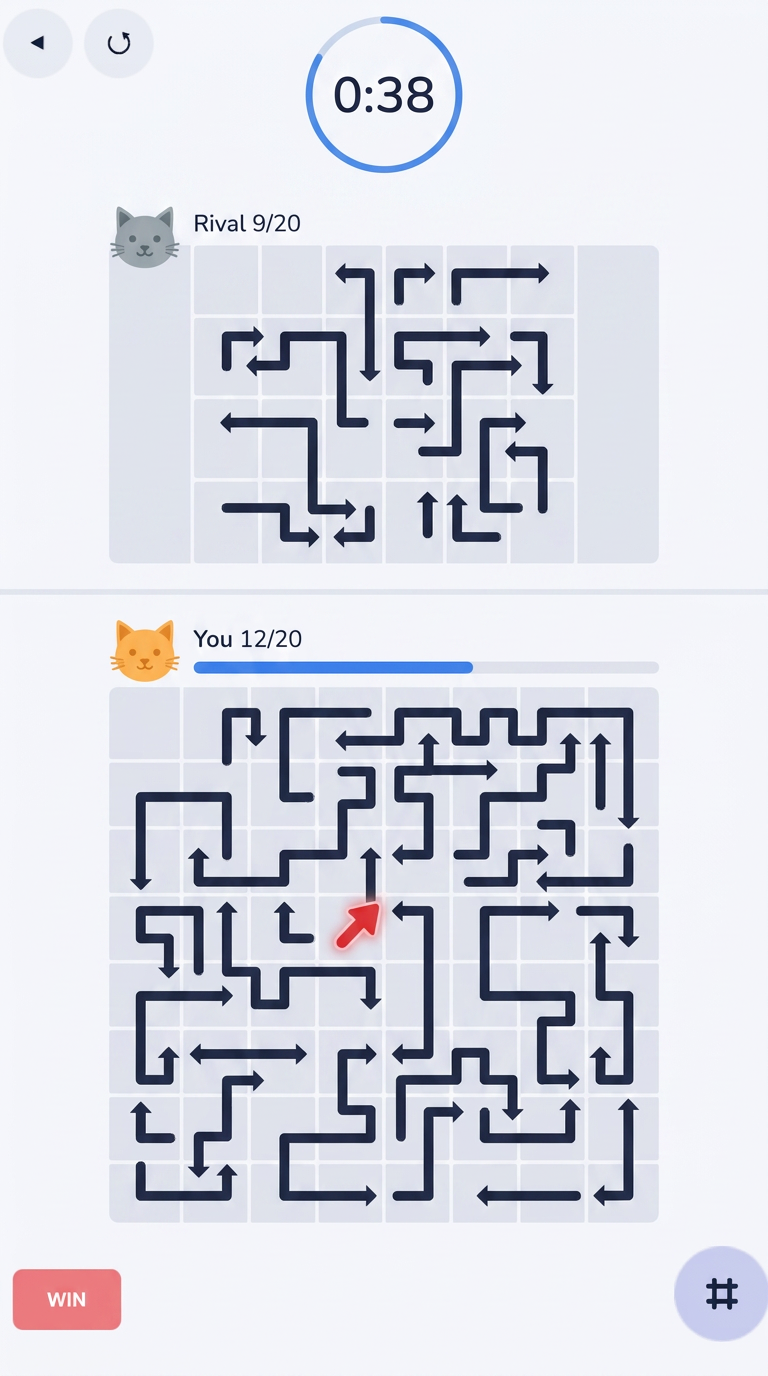
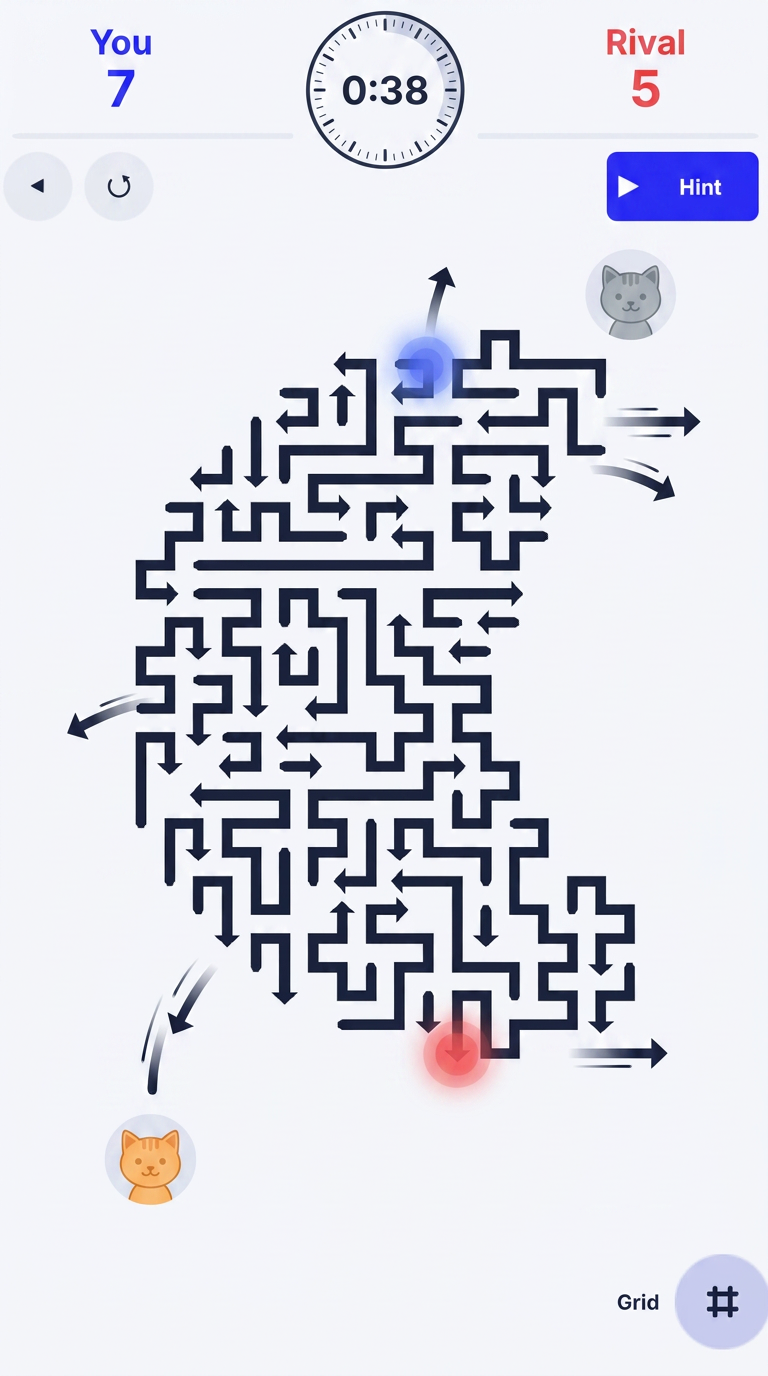
PvP: shared single-board duel (both players clear one board)
- Reframe rules/loop/impl: one shared board, direct contention for
  arrows (first valid tap wins), score = arrows you cleared
- Regen duel mockup to a single shared board with two-color taps + You/Rival scores
- Phased impl + risks updated for shared-state netcode & tap-conflict fairness

diff --git a/pvp.html b/pvp.html
@@ -87,8 +87,8 @@
     <div class="txt">
       <span class="pill">★ Concept đề xuất</span>
       <h1>PvP Arena — Đấu Mũi Tên</h1>
-      <div class="sub">Hai người chơi đối đầu trên cùng một màn: ai <b>gỡ được nhiều mũi tên hơn</b> trong thời gian giới hạn sẽ thắng. Người thắng nhận <b>vàng</b> và <b>cúp (trophy)</b> để <b>leo hạng</b> qua các giải đấu.</div>
-      <div class="tagline">⚔️ “Cùng một bàn cờ — ai tay nhanh & tính giỏi hơn sẽ thắng.”</div>
+      <div class="sub">Hai người chơi cùng gỡ mũi tên trên <b>MỘT bàn chung duy nhất</b>: ai <b>gỡ được nhiều mũi tên hơn</b> (tay nhanh hơn) sẽ thắng. Người thắng nhận <b>vàng</b> và <b>cúp (trophy)</b> để <b>leo hạng</b> qua các giải đấu.</div>
+      <div class="tagline">⚔️ “Chung một bàn — chậm tay là mất phần. Ai gỡ nhiều mũi tên hơn sẽ thắng.”</div>
     </div>
   </div>
 </div>
@@ -105,7 +105,7 @@
       </div>
       <div class="step">
         <div class="frame"><img src="images/pvp/duel.png" alt="Duel"></div>
-        <div class="cap"><b><span class="n">2</span>Đấu tốc độ</b><p>Cả hai nhận <b>cùng một bàn</b>. Bộ đếm giờ chạy; bạn thấy tiến độ đối thủ ở trên. Tap để gỡ mũi tên thật nhanh.</p></div>
+        <div class="cap"><b><span class="n">2</span>Tranh trên 1 bàn</b><p>Cả hai cùng gỡ trên <b>MỘT bàn chung</b>. Mũi tên ai tap trước là của người đó — thấy đối thủ giật mất mũi tên ngay trên bàn. Bộ đếm giờ chạy.</p></div>
       </div>
       <div class="step">
         <div class="frame"><img src="images/pvp/result.png" alt="Result"></div>
@@ -117,12 +117,12 @@
   <section>
     <h2><span class="ico">📜</span>Thể thức &amp; luật</h2>
     <ul class="rules">
-      <li><b>1 đấu 1.</b> Hai người chơi nhận <b>cùng một màn</b> (giống hệt, để công bằng) trên màn hình của mỗi người.</li>
+      <li><b>1 đấu 1 trên MỘT bàn chung.</b> Cả hai cùng nhìn &amp; cùng thao tác trên <b>một bàn mũi tên duy nhất</b> (shared board), không phải 2 bản sao.</li>
       <li>Thao tác y nguyên core: tap → mũi tên trượt ra mép nếu đường thoát trống. <b>Giữ nguyên luật trượt.</b></li>
-      <li><b>Đếm giờ</b> (vd 60 giây). Trong thời gian đó, gỡ được càng nhiều mũi tên càng tốt.</li>
-      <li class="win"><b>THẮNG = gỡ được NHIỀU mũi tên hơn</b> khi hết giờ. Nếu ai <b>gỡ sạch bàn trước</b> → thắng ngay lập tức.</li>
-      <li>Hoà (bằng số mũi tên) → người gỡ sạch/nhiều hơn ở mốc thời gian sớm hơn thắng, hoặc chia nhỏ thưởng.</li>
-      <li>Thấy <b>tiến độ realtime của đối thủ</b> (thanh “Rival 9/20”) để tạo áp lực đua.</li>
+      <li><b>Tranh trực tiếp:</b> mũi tên ai <b>tap hợp lệ trước</b> thì được gỡ &amp; tính điểm cho người đó; người kia mất phần đó. Bàn cạn dần cho cả hai.</li>
+      <li><b>Đếm giờ</b> (vd 60 giây) hoặc tới khi bàn sạch. Mỗi mũi tên bạn gỡ = +1 điểm cho bạn.</li>
+      <li class="win"><b>THẮNG = gỡ được NHIỀU mũi tên hơn</b> đối thủ khi hết giờ / khi bàn sạch.</li>
+      <li>Vì chung bàn nên bạn <b>thấy đối thủ giật mũi tên realtime</b> ngay trên bàn của mình → tạo áp lực &amp; tranh chấp liên tục.</li>
     </ul>
     <p class="note">Biến thể có thể thử: Best-of-3 màn ngắn; hoặc “first to clear” thuần tốc độ; hoặc tính điểm = mũi tên gỡ + bonus combo liên tiếp.</p>
   </section>
@@ -144,7 +144,7 @@
 
   <section>
     <h2><span class="ico">🎯</span>Khác gì core hiện tại?</h2>
-    <p class="lead">Luật trượt &amp; thao tác tap <b>giữ nguyên</b>. Cái mới là <b>khung đối kháng</b>: ghép trận, đếm giờ, so điểm, cúp/hạng.</p>
+    <p class="lead">Luật trượt &amp; thao tác tap <b>giữ nguyên</b>. Cái mới là <b>khung đối kháng trên 1 bàn chung</b>: ghép trận, đếm giờ, tranh mũi tên, so điểm, cúp/hạng.</p>
     <div class="twocol">
       <div class="box old"><h4>Core gốc (Solo)</h4><ul>
         <li>Chơi một mình, không giới hạn giờ.</li>
@@ -152,31 +152,31 @@
         <li>Tiến độ tuyến tính qua các level.</li>
       </ul></div>
       <div class="box new"><h4>PvP Arena</h4><ul>
-        <li>Đối đầu 2 người, <b>đếm giờ</b>.</li>
-        <li>Thắng = <b>gỡ nhiều hơn</b> đối thủ.</li>
+        <li>2 người tranh trên <b>1 bàn chung</b>, <b>đếm giờ</b>.</li>
+        <li>Thắng = <b>gỡ nhiều mũi tên hơn</b> đối thủ.</li>
         <li><b>Cúp + hạng + vàng</b> theo kết quả trận.</li>
       </ul></div>
     </div>
-    <div class="tagchips"><span>Khung đối kháng mới</span><span>Luật trượt: giữ nguyên</span><span>Thao tác tap: giữ nguyên</span><span>Gắn meta Leagues</span></div>
+    <div class="tagchips"><span>1 bàn chung · tranh trực tiếp</span><span>Luật trượt: giữ nguyên</span><span>Thao tác tap: giữ nguyên</span><span>Gắn meta Leagues</span></div>
   </section>
 
   <section>
     <h2><span class="ico">⚙️</span>Triển khai — chọn đường đi (quan trọng)</h2>
     <p class="lead">Real-time PvP thật cần <b>backend + netcode</b> — đây là phần nặng nhất. Đề xuất chia 2 pha để giảm rủi ro:</p>
     <div class="mvp">
-      <div class="m m1"><b>Pha 1 — MVP “Ghost Race” <span class="tag go">làm trước</span></b>
-        Đua <b>bất đồng bộ</b>: đối thủ là <b>bản replay</b> của một người chơi khác (hoặc <b>bot</b> theo nhịp). Bạn thấy “bóng ma” tiến độ của họ chạy song song. <b>Không cần netcode realtime</b> — chỉ cần lưu/replay chuỗi nước đi + thời điểm. Cảm giác đua y như thật, ship nhanh, ít rủi ro.</div>
+      <div class="m m1"><b>Pha 1 — MVP “Ghost trên bàn chung” <span class="tag go">làm trước</span></b>
+        Đua <b>bất đồng bộ</b>: đối thủ là <b>bản replay/bot</b> mà các nước gỡ của họ được <b>áp lên CHÍNH bàn của bạn</b> theo đúng mốc thời gian đã ghi — mũi tên cứ tới giờ là “đối thủ” giật mất. Nếu bạn tap trước mốc đó → bạn cướp được, nước của ghost thành hụt. <b>Không cần netcode realtime</b>, vẫn cho cảm giác tranh bàn thật.</div>
       <div class="m m2"><b>Pha 2 — Real-time thật <span class="tag later">sau khi validate</span></b>
-        Matchmaking online + đồng bộ realtime (WebSocket/Photon/relay). Server xác thực kết quả (anti-cheat), tính cúp, chống ngắt mạng. Chỉ đầu tư khi Pha 1 chứng minh người chơi thích chế độ đua.</div>
+        Đồng bộ <b>shared state realtime</b> (WebSocket/Photon/relay): cùng một bàn, một host/server authoritative xử <b>tranh chấp khi cả hai tap cùng 1 mũi tên</b> (ai timestamp trước được tính, người kia hụt), tính cúp, chống ngắt mạng &amp; gian lận. Chỉ đầu tư khi Pha 1 chứng minh nhu cầu.</div>
     </div>
     <div class="impl" style="margin-top:16px">
       <ol>
-        <li><b>Tái dùng core</b>: cùng <code>GameState</code>/<code>ArrowView</code>/luật trượt; chỉ thêm lớp “match”.</li>
-        <li><b>Điểm số</b>: <code>arrowsCleared</code> đếm mỗi lần một mũi tên thoát; gửi/đối chiếu khi hết giờ.</li>
-        <li><b>Đối thủ</b>: Pha 1 = phát lại <code>(moveIndex, timestamp)</code> đã ghi; Pha 2 = state sync qua server.</li>
-        <li><b>Cúp/hạng</b>: hàm <code>trophyDelta(win/lose, gap)</code>; lưu vào progress; map cúp → tier để hiển thị Arena Ranks.</li>
-        <li><b>Công bằng</b>: cùng seed/level cho cả hai; cùng thời gian; ẩn bàn đối thủ ở mức chi tiết, chỉ lộ tiến độ.</li>
-        <li><b>Chống gian lận</b> (Pha 2): server-authoritative điểm, giới hạn tốc độ tap hợp lý.</li>
+        <li><b>Tái dùng core</b>: cùng <code>GameState</code>/<code>ArrowView</code>/luật trượt; bàn là <b>một state dùng chung</b>, chỉ thêm lớp “match” + chủ sở hữu nước đi.</li>
+        <li><b>Điểm số</b>: mỗi mũi tên thoát ghi nhận <code>clearedBy = playerId</code>; điểm mỗi người = số mũi tên mình gỡ.</li>
+        <li><b>Tranh chấp</b>: 1 mũi tên chỉ gỡ được 1 lần — ai tap hợp lệ trước (theo timestamp) thắng nước đó, người kia nhận “hụt”. Pha 1 so với mốc ghost; Pha 2 host quyết.</li>
+        <li><b>Đối thủ</b>: Pha 1 = phát lại <code>(arrowId, timestamp)</code> lên bàn chung; Pha 2 = đồng bộ state qua server.</li>
+        <li><b>Cúp/hạng</b>: hàm <code>trophyDelta(win/lose, gap)</code>; lưu progress; map cúp → tier để hiển thị Arena Ranks.</li>
+        <li><b>Chống gian lận</b> (Pha 2): server-authoritative cho cả state bàn lẫn điểm; giới hạn tốc độ tap hợp lý.</li>
       </ol>
     </div>
   </section>
@@ -190,7 +190,7 @@
       <div class="w"><b>Ship dần</b><p>Ghost-race ra trước, validate nhu cầu trước khi đổ tiền vào netcode realtime.</p></div>
     </div>
     <p class="risk">
-      <b>⚠ Câu hỏi mở cần chốt:</b> độ phức tạp &amp; chi phí netcode realtime; pool người chơi nhỏ lúc đầu (→ dùng bot/ghost để luôn có đối thủ); cân bằng cúp ăn/mất; chống gian lận tốc độ; xử lý ngắt mạng giữa trận.
+      <b>⚠ Câu hỏi mở cần chốt:</b> độ phức tạp &amp; chi phí netcode realtime cho bàn dùng chung; <b>công bằng độ trễ</b> khi hai người tranh cùng 1 mũi tên (ai tap trước được tính); pool người chơi nhỏ lúc đầu (→ dùng bot/ghost để luôn có đối thủ); cân bằng cúp ăn/mất; chống gian lận tốc độ; xử lý ngắt mạng giữa trận.
     </p>
   </section>
 